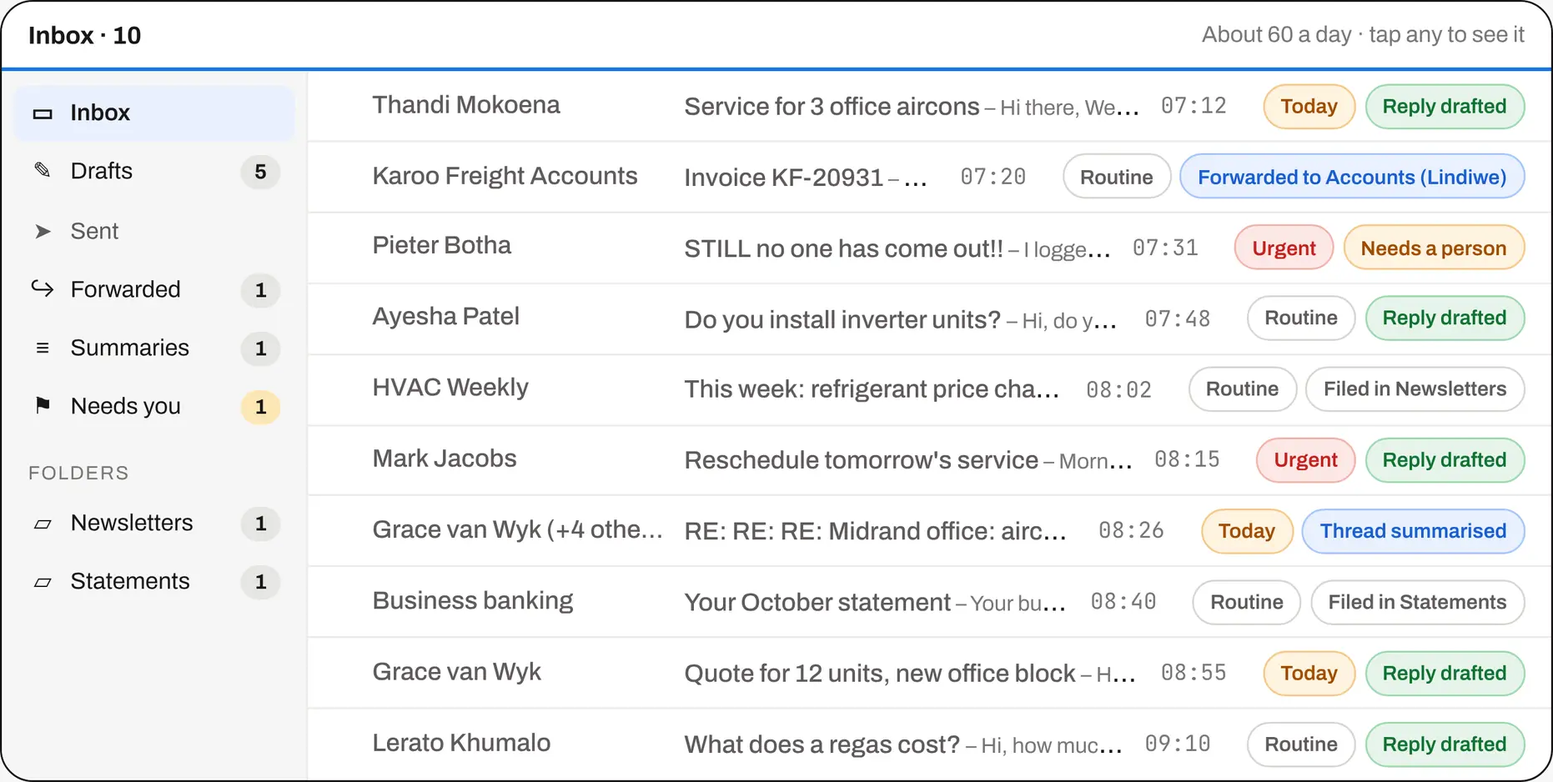
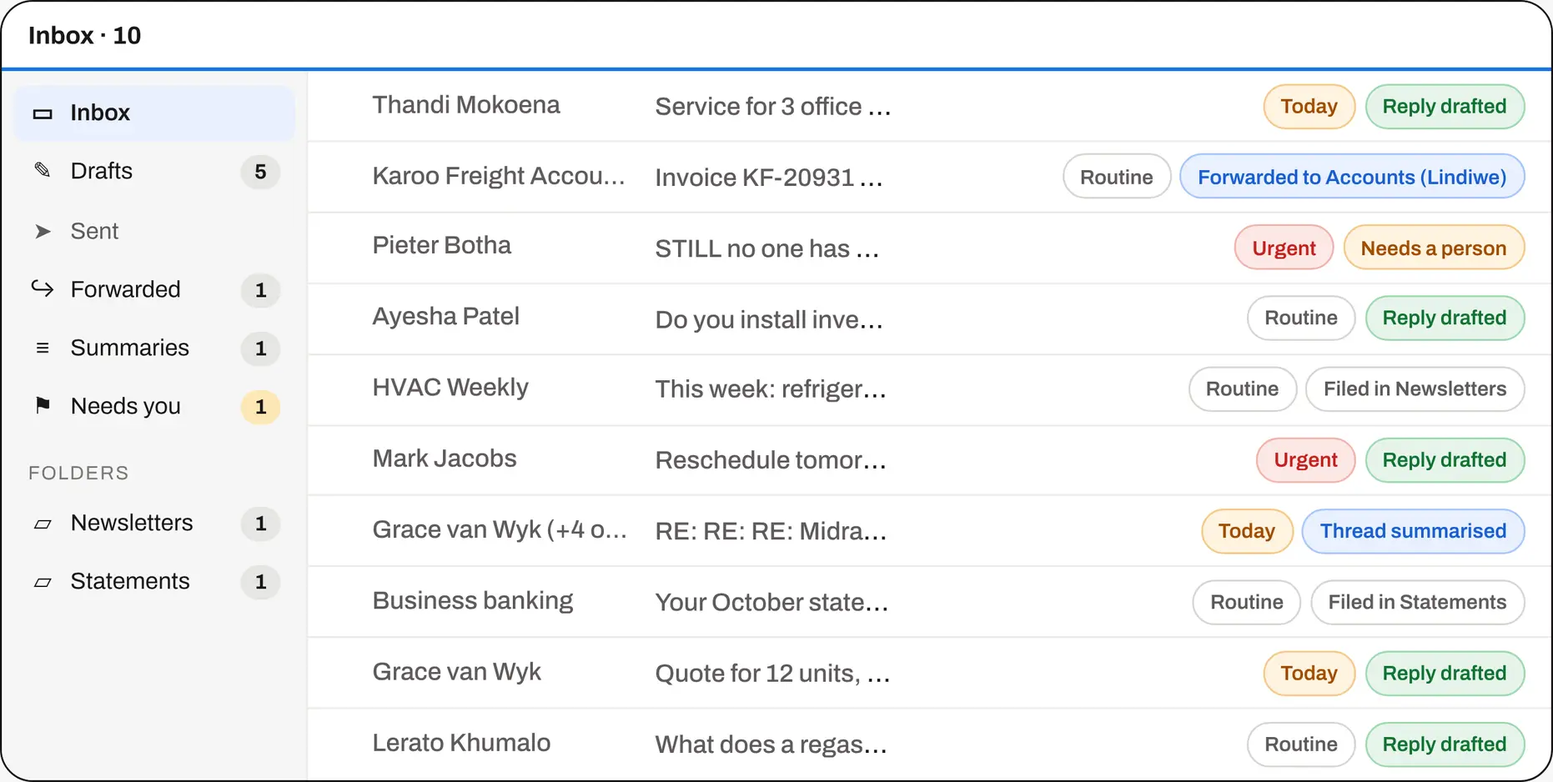
Homepage slider: fixes from the review (reversed wipe so the labels show first, matched desktop shots, sizes for short laptops, landscape and small phones, pinch-zoom, focus, no-JS, honest labels)
Claude-Session: https://claude.ai/code/session_01M1NKcTwKaxVh1QCPGxnW1z

diff --git a/home.css b/home.css
@@ -563,33 +563,48 @@ html:has(.hp-slides) { scroll-snap-type: y proximity; scroll-padding-top: var(--
 .hp-show--light h2, .hp-show--light h3 { color: var(--ink) !important; }
 .hp-show--light .hp-show__head p { color: #4a4646; }
 .hp-show--light .hp-next { border-color: var(--ink) !important; color: var(--ink) !important; }
-/* The inbox before and after: drag the line across to sort it; the results sit below.
-   --pos is how much of the "after" shows, from the left (home.js moves it). */
-.hp-cmp { --pos: 0%; --r: 1.985; --h: min(calc(100svh - var(--nav-h, 67px) - 22.2rem), 33rem); max-width: var(--wrap, 1140px); margin-inline: auto; }
-.hp-cmp__frame { position: relative; width: min(100%, calc(var(--h) * var(--r))); aspect-ratio: var(--r); margin-inline: auto; border-radius: 18px; overflow: hidden; background: #fff; box-shadow: 0 24px 50px -28px rgba(0, 0, 0, .35); cursor: ew-resize; touch-action: pan-y; -webkit-user-select: none; user-select: none; -webkit-tap-highlight-color: transparent; }
+/* The inbox before and after: drag the line left to sort it; the results sit below.
+   --pos is where the line is, from the left: the "before" shows left of it, the "after" right of it,
+   so the labels (Reply drafted, Urgent, …) are the first thing revealed. home.js moves it; it starts
+   at 100% (just the before). Without JavaScript the line sits at 50% and can't be moved. */
+.hp-cmp { --pos: 50%; --r: 1.985; --k: calc(1.5rem + 6px); --h: clamp(11rem, calc(100svh - var(--nav-h, 67px) - 22.2rem), 33rem); max-width: var(--wrap, 1140px); margin-inline: auto; }
+.hp-cmp.is-live { --pos: 100%; }
+.hp-cmp__frame { position: relative; width: min(100%, calc(var(--h) * var(--r))); aspect-ratio: var(--r); margin-inline: auto; border-radius: 18px; overflow: hidden; background: #fff; box-shadow: 0 24px 50px -28px rgba(0, 0, 0, .35); container-type: inline-size; cursor: ew-resize; touch-action: pan-y; touch-action: pan-y pinch-zoom; -webkit-user-select: none; user-select: none; -webkit-tap-highlight-color: transparent; }
 .hp-cmp__before, .hp-cmp__after { position: absolute; inset: 0; }
 .hp-cmp__before picture, .hp-cmp__after picture { display: block; height: 100%; }
 .hp-cmp__frame img { display: block; width: 100%; height: 100%; object-fit: cover; object-position: top left; pointer-events: none; }
-.hp-cmp__after { clip-path: inset(0 calc(100% - var(--pos)) 0 0); }
+.hp-cmp__after { clip-path: inset(0 0 0 var(--pos)); }
 .hp-cmp__line { position: absolute; top: 0; bottom: 0; left: var(--pos); width: 3px; margin-left: -1.5px; background: var(--ink); pointer-events: none; }
-.hp-cmp__knob { position: absolute; top: 50%; left: clamp(1.5rem, var(--pos), calc(100% - 1.5rem)); translate: -50% -50%; display: grid; place-items: center; width: 3rem; height: 3rem; border-radius: 50%; background: var(--ink); color: #fff; box-shadow: 0 6px 18px rgba(0, 0, 0, .28); cursor: grab; }
+/* the knob stays clear of the edges, so its focus ring is never cut off */
+.hp-cmp__knob { position: absolute; top: 50%; left: clamp(var(--k), var(--pos), calc(100% - var(--k))); translate: -50% -50%; display: grid; place-items: center; width: 3rem; height: 3rem; border-radius: 50%; background: var(--ink); color: #fff; box-shadow: 0 6px 18px rgba(0, 0, 0, .28); cursor: grab; }
 .hp-cmp__knob svg { width: 1.45rem; height: 1.45rem; }
 .hp-cmp__knob:focus-visible { outline: 3px solid var(--ink); outline-offset: 3px; }
 .hp-cmp.is-dragging .hp-cmp__knob { cursor: grabbing; }
-.hp-cmp__tag { position: absolute; bottom: .7rem; padding: .3rem .7rem; border-radius: 99px; background: var(--ink); color: #fff; font: 700 .72rem/1 "Archivo", sans-serif; letter-spacing: .06em; text-transform: uppercase; pointer-events: none; }
-.hp-cmp__before .hp-cmp__tag { right: .7rem; }
-.hp-cmp__after .hp-cmp__tag { left: .7rem; background: #1f7a3f; }
+.hp-cmp:not(.is-live) .hp-cmp__knob, .hp-cmp:not(.is-live) .hp-cmp__hint { display: none; }
+/* Before/After sit in the header band (the same in both shots), clear of the emails */
+.hp-cmp__tag { position: absolute; top: .3rem; padding: .22rem .55rem; border-radius: 99px; background: var(--ink); color: #fff; font: 700 .6rem/1 "Archivo", sans-serif; letter-spacing: .06em; text-transform: uppercase; pointer-events: none; }
+.hp-cmp__before .hp-cmp__tag { left: 24%; }
+.hp-cmp__after .hp-cmp__tag { right: .6rem; background: #1f7a3f; }
 /* taps, keys and the first-view nudge glide; dragging follows the finger exactly */
 .hp-cmp.is-ease .hp-cmp__after { transition: clip-path .45s cubic-bezier(.3, .7, .2, 1); }
 .hp-cmp.is-ease .hp-cmp__line, .hp-cmp.is-ease .hp-cmp__knob { transition: left .45s cubic-bezier(.3, .7, .2, 1); }
-.hp-cmp__hint { position: absolute; top: 50%; left: calc(clamp(1.5rem, var(--pos), calc(100% - 1.5rem)) + 2.1rem); translate: 0 -50%; padding: .45rem .8rem; border-radius: 99px; background: var(--ink); color: #fff; font: 700 .8rem/1 "Archivo", sans-serif; white-space: nowrap; pointer-events: none; transition: opacity .3s; }
-.hp-cmp__hint::after { content: "\00a0\2192"; }
+.hp-cmp__hint { position: absolute; top: 50%; right: calc(100% - clamp(var(--k), var(--pos), calc(100% - var(--k))) + 2.1rem); translate: 0 -50%; padding: .45rem .8rem; border-radius: 99px; background: var(--ink); color: #fff; font: 700 .8rem/1 "Archivo", sans-serif; white-space: nowrap; pointer-events: none; transition: opacity .3s; }
+.hp-cmp__hint::before { content: "\2190\00a0"; }
 .hp-cmp.is-used .hp-cmp__hint, .hp-cmp.is-ease .hp-cmp__hint { opacity: 0; }
+@container (max-width: 15rem) { .hp-cmp__hint { white-space: normal; max-width: calc(100% - 4.6rem); line-height: 1.15; text-align: right; } }
+@container (max-width: 10rem) { .hp-cmp__hint { display: none; } }
+/* the tags need a header band at least as tall as they are: hide them on the smallest pictures */
+@media (min-width: 601px) { @container (max-width: 26rem) { .hp-cmp__tag { display: none; } } }
+@media (max-width: 600px) { @container (max-width: 11.5rem) { .hp-cmp__tag { display: none; } } }
+@media (forced-colors: active) {
+  .hp-cmp__line { forced-color-adjust: none; background: CanvasText; }
+  .hp-cmp__knob { border: 2px solid CanvasText; }
+}
 .hp-show--light .hp-show__head .hp-link { color: var(--ink); text-decoration-color: var(--ink); white-space: nowrap; }
-.hp-kpis { list-style: none; display: grid; grid-template-columns: repeat(4, minmax(0, 1fr)); gap: .6rem; width: min(100%, calc(var(--h) * var(--r))); margin: .8rem auto 0; padding: 0; }
+.hp-kpis { list-style: none; display: grid; grid-template-columns: repeat(4, minmax(0, 1fr)); gap: .6rem; width: min(100%, max(calc(var(--h) * var(--r)), 40rem)); margin: .8rem auto 0; padding: 0; }
 .hp-kpis li { display: grid; align-content: start; gap: .15rem; min-width: 0; padding: .55rem .85rem .6rem; border: 1.5px solid var(--ink); border-radius: 14px; background: #fff; }
 .hp-kpis b { font: 800 clamp(1.3rem, 1.9vw, 1.65rem)/1.05 "Archivo", sans-serif; letter-spacing: -.01em; }
-.hp-kpis span { color: #4a4646; font-size: .8rem; line-height: 1.25; }
+.hp-kpis span { color: #4a4646; font-size: .8rem; line-height: 1.25; text-wrap: balance; }
 .hp-kpis li.is-time { background: var(--ink); border-color: var(--ink); color: #fff; }
 .hp-kpis li.is-time span { color: #d6d2cb; }
 /* desktop: the title and the intro side by side, so the inbox gets the height */
@@ -598,14 +613,31 @@ html:has(.hp-slides) { scroll-snap-type: y proximity; scroll-padding-top: var(--
   .hp-show--light .hp-show__head p { padding-bottom: .5rem; }
 }
 @media (max-width: 600px) {
-  .hp-cmp { --r: .7947; --h: calc(100svh - var(--nav-h, 67px) - 25rem); }
-  .hp-kpis { grid-template-columns: repeat(2, minmax(0, 1fr)); gap: .45rem; width: min(100%, max(calc(var(--h) * var(--r)), 19rem)); margin-top: .6rem; }
+  .hp-cmp { --r: .7947; --k: calc(1.3rem + 6px); --h: calc(100svh - var(--nav-h, 67px) - 25rem); }
+  .hp-kpis { grid-template-columns: repeat(2, minmax(0, 1fr)); gap: .45rem; width: min(100%, max(calc(var(--h) * var(--r)), 15rem)); margin-top: .6rem; }
   .hp-kpis li { padding: .4rem .6rem .45rem; border-radius: 12px; gap: .05rem; }
   .hp-kpis b { font-size: 1.15rem; }
   .hp-kpis span { font-size: .74rem; line-height: 1.2; }
-  .hp-cmp__hint { font-size: .72rem; padding: .4rem .65rem; }
+  .hp-cmp__hint { font-size: .72rem; padding: .4rem .65rem; right: calc(100% - clamp(var(--k), var(--pos), calc(100% - var(--k))) + 1.9rem); }
   .hp-cmp__knob { width: 2.6rem; height: 2.6rem; }
-  .hp-cmp__tag { bottom: .5rem; font-size: .62rem; }
+}
+/* short phones (most phones in Safari): the intro sentence goes, so the inbox gets that room */
+@media (max-width: 600px) and (max-height: 760px) { .hp-cmp { --h: calc(100svh - var(--nav-h, 67px) - 20.5rem); } }
+/* Short, wide screens (laptop windows under 680px tall, phones on their side): the figures sit beside
+   the inbox instead of under it, so the inbox can be bigger. */
+@media (orientation: landscape) and (max-height: 680px) {
+  .hp-cmp { --h: max(9rem, calc(100svh - var(--nav-h, 67px) - 15.7rem)); --side: 17rem; display: grid; grid-template-columns: min(calc(var(--h) * var(--r)), calc(100% - var(--side) - .9rem)) var(--side); gap: .9rem; justify-content: center; align-items: center; }
+  .hp-cmp__frame { width: 100%; margin: 0; }
+  .hp-kpis { grid-template-columns: repeat(2, minmax(0, 1fr)); width: auto; margin: 0; gap: .5rem; }
+  .hp-kpis li { padding: .5rem .7rem .55rem; }
+}
+@media (orientation: landscape) and (max-height: 500px) {
+  .hp-cmp { --h: max(8rem, calc(100svh - var(--nav-h, 67px) - 11rem)); --side: 15rem; }
+  #see.hp-slide { padding-bottom: 1.5rem !important; }   /* no down arrow here, so no room kept for it */
+  .hp-kpis { gap: .4rem; }
+  .hp-kpis li { padding: .4rem .6rem .45rem; border-radius: 12px; }
+  .hp-kpis b { font-size: 1.15rem; }
+  .hp-kpis span { font-size: .74rem; line-height: 1.2; }
 }
 
 /* ---------- Before and after: bigger cards, images spilling over the edges like the deck ---------- */
@@ -683,7 +715,7 @@ html:has(.hp-slides) { scroll-snap-type: y proximity; scroll-padding-top: var(--
 body.consent-open .hp-next { display: none !important; }
 /* Short phones (iPhone SE and similar): scroll freely, no snapping */
 @media (max-height: 700px) { html:has(.hp-slides), html.hp-snap { scroll-snap-type: none !important; } }
-@media (max-width: 600px) and (max-height: 760px) { .hp-show__head p { display: none; } }
+@media (max-width: 600px) and (max-height: 760px) { .hp-show__head .hp-num, .hp-show__head .hp-label, .hp-show__head > p > span { display: none; } }
 /* ---------- Developer audit fixes ---------- */
 html:has(.hp-slides) .footer { scroll-snap-align: end; }
 .hp-deck { overflow-x: hidden; }

diff --git a/index.html b/index.html
@@ -31,7 +31,7 @@
   <link rel="stylesheet" href="https://fonts.googleapis.com/css2?family=Archivo:wdth,wght@62..125,400..900&family=Inter:wght@400;500;600&family=Space+Grotesk:wght@500;600;700&family=JetBrains+Mono:wght@400;500;600&display=swap" media="print" onload="this.media=&#39;all&#39;" />
   <noscript><link rel="stylesheet" href="https://fonts.googleapis.com/css2?family=Archivo:wdth,wght@62..125,400..900&family=Inter:wght@400;500;600&family=Space+Grotesk:wght@500;600;700&family=JetBrains+Mono:wght@400;500;600&display=swap" /></noscript>
   <link rel="stylesheet" href="styles.css?v=20261018b" />
-  <link rel="stylesheet" href="home.css?v=20261018d" />
+  <link rel="stylesheet" href="home.css?v=20261018e" />
 
   <script type="application/ld+json">
 {
@@ -276,20 +276,20 @@
       <div class="hp-wrap">
         <div class="hp-show__head">
           <div><p class="hp-num">03</p><p class="hp-label">See it work</p><h2 id="s4">Watch it work.</h2></div>
-          <p>A morning&rsquo;s inbox, sorted in seconds. A prepared example: run any of them yourself, nothing is sent. <a class="hp-link" href="live-demo?sample=email">Run it yourself&nbsp;&rarr;</a></p>
+          <p><span>Ten example emails, sorted and drafted in seconds. Nothing gets sent.</span> <a class="hp-link" href="live-demo?sample=email">Run it yourself&nbsp;&rarr;</a></p>
         </div>
         <div class="hp-cmp" data-cmp>
           <div class="hp-cmp__frame">
-            <div class="hp-cmp__before"><picture><source media="(max-width: 600px)" srcset="assets/shots/inbox-before-m.webp?v=3" type="image/webp" width="720" height="906" /><img src="assets/shots/inbox-before.webp?v=3" alt="Before: an inbox with ten unread emails: quote requests, an invoice, a complaint, a newsletter, a long thread and a bank statement, all mixed together." width="1862" height="938" loading="lazy" draggable="false" /></picture><span class="hp-cmp__tag" aria-hidden="true">Before</span></div>
-            <div class="hp-cmp__after"><picture><source media="(max-width: 600px)" srcset="assets/shots/inbox-after-m.webp?v=3" type="image/webp" width="720" height="906" /><img src="assets/shots/inbox-after.webp?v=3" alt="After: the same inbox, each email marked urgent, today or routine, and labelled reply drafted, forwarded to accounts, filed, thread summarised or needs a person." width="1862" height="938" loading="lazy" draggable="false" /></picture><span class="hp-cmp__tag" aria-hidden="true">After</span></div>
+            <div class="hp-cmp__before"><picture><source media="(max-width: 600px)" srcset="assets/shots/inbox-before-m.webp?v=5" type="image/webp" width="720" height="906" /><img src="assets/shots/inbox-before.webp?v=5" alt="Before: an inbox with ten unread emails: quote requests, an invoice, a complaint, a newsletter, a long thread and a bank statement, all mixed together." width="1862" height="938" loading="lazy" draggable="false" /></picture><span class="hp-cmp__tag" aria-hidden="true">Before</span></div>
+            <div class="hp-cmp__after"><picture><source media="(max-width: 600px)" srcset="assets/shots/inbox-after-m.webp?v=5" type="image/webp" width="720" height="906" /><img src="assets/shots/inbox-after.webp?v=5" alt="After: the same inbox, each email marked urgent, today or routine, and labelled reply drafted, forwarded to accounts, filed, thread summarised or needs a person." width="1862" height="938" loading="lazy" draggable="false" /></picture><span class="hp-cmp__tag" aria-hidden="true">After</span></div>
             <span class="hp-cmp__line" aria-hidden="true"></span>
             <span class="hp-cmp__hint" aria-hidden="true">Drag to sort them</span>
-            <span class="hp-cmp__knob" role="slider" tabindex="0" aria-label="Before and after: move to sort the inbox" aria-valuemin="0" aria-valuemax="100" aria-valuenow="0" aria-valuetext="Before: nothing sorted"><svg viewBox="0 0 24 24" aria-hidden="true"><path d="M9 6l-5 6 5 6M15 6l5 6-5 6" fill="none" stroke="currentColor" stroke-width="2.2" stroke-linecap="round" stroke-linejoin="round"/></svg></span>
+            <span class="hp-cmp__knob" role="slider" tabindex="0" aria-label="Before and after: move left to sort the inbox" aria-valuemin="0" aria-valuemax="100" aria-valuenow="100" aria-valuetext="Before: nothing sorted"><svg viewBox="0 0 24 24" aria-hidden="true"><path d="M9 6l-5 6 5 6M15 6l5 6-5 6" fill="none" stroke="currentColor" stroke-width="2.2" stroke-linecap="round" stroke-linejoin="round"/></svg></span>
           </div>
           <ul class="hp-kpis" aria-label="What happened to these 10 example emails">
             <li class="is-time"><b>35 min</b><span>saved on these 10 emails</span></li>
             <li><b>5</b><span>replies drafted, ready to check</span></li>
-            <li><b>2</b><span>urgent, flagged to the top</span></li>
+            <li><b>2</b><span>urgent, flagged in red</span></li>
             <li class="is-time"><b>~3.5 h</b><span>a day, if you get 60 like these</span></li>
           </ul>
         </div>
@@ -379,7 +379,7 @@
       </div>
     </section>
   </main>
-  <script src="home.js?v=8" defer></script>
+  <script src="home.js?v=9" defer></script>
   <!-- ============ FOOTER ============ -->
   <footer class="footer footer--slim">
     <div class="container">

diff --git a/home.js b/home.js
@@ -13,30 +13,39 @@
 })();
 
 /* "Watch it work": drag the line across the inbox to see it sorted.
-   --pos (0 to 100%) is how much of the "after" shows, from the left. A mouse moves it straight away;
-   a finger moves it once the drag is clearly sideways (so scrolling the page past it still works),
-   and a tap jumps it there. Keys: arrows, Page Up/Down, Home and End. Fires "cmp:move" for the counts below. */
+   --pos (0 to 100%) is where the line is, from the left; the "after" shows right of it, so dragging
+   left sorts more. It starts at 100% (just the before). A mouse moves it straight away; a finger
+   moves it once the drag is clearly sideways (so scrolling the page past it still works), and a tap
+   jumps it there. Keys on the knob: arrows, Page Up/Down, Home and End. The knob's value is the
+   line's position; its text says how much is sorted. Fires "cmp:move" (detail: % sorted). */
 (function () {
   'use strict';
   var still = matchMedia('(prefers-reduced-motion: reduce)');
   document.querySelectorAll('[data-cmp]').forEach(function (box) {
     var frame = box.querySelector('.hp-cmp__frame'), knob = box.querySelector('.hp-cmp__knob');
     if (!frame || !knob) return;
-    var pos = 0, used = false, drag = null, easeT = 0;
+    var pos = 100, used = false, drag = null, easeT = 0;
     var set = function (p, byUser) {
       pos = Math.max(0, Math.min(100, p));
       box.style.setProperty('--pos', pos + '%');
-      var n = Math.round(pos);
-      knob.setAttribute('aria-valuenow', String(n));
-      knob.setAttribute('aria-valuetext', n <= 2 ? 'Before: nothing sorted' : n >= 98 ? 'After: every email sorted' : n + '% sorted');
-      if (byUser) { used = true; box.classList.add('is-used'); box.dispatchEvent(new CustomEvent('cmp:move', { detail: pos })); }
+      var sorted = Math.round(100 - pos);
+      knob.setAttribute('aria-valuenow', String(Math.round(pos)));
+      knob.setAttribute('aria-valuetext', sorted <= 2 ? 'Before: nothing sorted' : sorted >= 98 ? 'After: every email sorted' : sorted + '% sorted');
+      if (byUser) { used = true; box.classList.add('is-used'); box.dispatchEvent(new CustomEvent('cmp:move', { detail: 100 - pos })); }
     };
     var ease = function (on) { clearTimeout(easeT); box.classList.toggle('is-ease', on && !still.matches); if (on) easeT = setTimeout(function () { box.classList.remove('is-ease'); }, 500); };
     var at = function (x) { var r = frame.getBoundingClientRect(); return r.width ? (x - r.left) / r.width * 100 : pos; };
     frame.addEventListener('pointerdown', function (e) {
       if (e.button > 0) return;
+      var onKnob = Boolean(e.target.closest && e.target.closest('.hp-cmp__knob'));
       drag = { id: e.pointerId, x: e.clientX, y: e.clientY, on: e.pointerType === 'mouse', touch: e.pointerType !== 'mouse' };
-      if (drag.on) { e.preventDefault(); ease(false); box.classList.add('is-dragging'); try { frame.setPointerCapture(e.pointerId); } catch (err) { /* fine */ } set(at(e.clientX), true); }
+      if (drag.on) {
+        // a press on the knob focuses it (so the arrow keys work after) and doesn't jump the line
+        if (!onKnob) e.preventDefault();
+        ease(false); box.classList.add('is-dragging');
+        try { frame.setPointerCapture(e.pointerId); } catch (err) { /* fine */ }
+        if (!onKnob) set(at(e.clientX), true);
+      }
     });
     frame.addEventListener('pointermove', function (e) {
       if (!drag || e.pointerId !== drag.id) return;
@@ -60,7 +69,8 @@
       if (n === null) return;
       e.preventDefault(); ease(true); set(n, true);
     });
-    set(0, false);
+    box.classList.add('is-live');
+    set(100, false);
     // The first time it's mostly on screen, nudge the line once so it's clear it moves (not with reduced motion)
     if (!('IntersectionObserver' in window) || still.matches) return;
     var io = new IntersectionObserver(function (es) {
@@ -68,8 +78,12 @@
       io.disconnect();
       setTimeout(function () {
         if (used) return;
-        box.classList.add('is-ease'); set(16, false);
-        setTimeout(function () { if (!used) set(0, false); setTimeout(function () { if (!drag) box.classList.remove('is-ease'); }, 500); }, 800);
+        box.classList.add('is-ease'); set(84, false);
+        setTimeout(function () {
+          if (!used) set(100, false);
+          clearTimeout(easeT);
+          easeT = setTimeout(function () { box.classList.remove('is-ease'); }, 500);
+        }, 800);
       }, 600);
     }, { threshold: 0.6 });
     io.observe(frame);

diff --git a/scripts/shots/capture.js b/scripts/shots/capture.js
@@ -1,18 +1,22 @@
-// Re-captures the homepage "Watch it work" screenshots in the light skin.
-// Serve the site on 127.0.0.1:8199, then: node scripts/shots/capture.js scripts/shots <out-dir>
-// and convert: convert inbox-before.png -resize 1862x -quality 84 assets/shots/inbox-before.webp (same for after; results at full size).
-// Phone versions: scripts/shots/capture-m.js.
-const { chromium } = require('playwright'); const fs=require('fs');
-const css=fs.readFileSync(process.argv[2]+'/light.css','utf8'); const out=process.argv[3];
+// Desktop versions of the homepage "Watch it work" before/after pair, in the light skin. The two are
+// the same size and their columns line up (a fixed-width labels column in both states), so the
+// slider shows each row half before, half after. Serve the site on 127.0.0.1:8199, then:
+// node scripts/shots/capture.js <out-dir>, and convert each PNG:
+// convert inbox-before.png -resize 1862x -quality 84 assets/shots/inbox-before.webp (same for after).
+// Phone versions: scripts/shots/capture-cmp.js.
+const { chromium } = require('playwright'); const fs = require('fs');
+const css = fs.readFileSync(__dirname + '/light.css', 'utf8') +
+  '.ld[data-kind="email"] .ld-row__head{grid-template-columns:.6rem minmax(0,9rem) minmax(0,1fr) 21rem!important}.ld[data-kind="email"] .ld-row__time{display:none!important}';
+const out = process.argv[2];
 (async () => { const b = await chromium.launch({ executablePath: '/opt/pw-browsers/chromium' });
   const ctx = await b.newContext({ viewport: { width: 1180, height: 680 }, deviceScaleFactor: 3, reducedMotion: 'reduce' });
   const pg = await ctx.newPage(); await pg.addInitScript(() => { try { localStorage.setItem('rc_consent', 'no'); } catch (e) {} });
-  await pg.goto('http://127.0.0.1:8199/live-demo.html?sample=email', { waitUntil: 'load' }); await pg.addStyleTag({content:css}); await pg.waitForTimeout(900);
-  await pg.evaluate(() => { document.getElementById('consent')?.remove(); document.body.classList.remove('consent-open'); });
-  await pg.locator('.ld-box').screenshot({ path: out+'/inbox-before.png' });
+  await pg.goto('http://127.0.0.1:8199/live-demo.html?sample=email', { waitUntil: 'load' }); await pg.addStyleTag({ content: css }); await pg.waitForTimeout(900);
+  // no header note: "tap any to see it" isn't true on the homepage (a tap moves the slider), and the After tag sits there
+  const basis = () => pg.evaluate(() => { document.getElementById('consent')?.remove(); document.body.classList.remove('consent-open'); const el = document.querySelector('[data-ld-basis]'); if (el) el.textContent = ''; });
+  await basis();
+  await pg.locator('.ld-box').screenshot({ path: out + '/inbox-before.png' });
   await pg.click('[data-ld-run]'); await pg.waitForTimeout(900);
-  await pg.locator('.ld-box').screenshot({ path: out+'/inbox-after.png' });
-  const k = await pg.locator('.ld-kpis').boundingBox(), t = await pg.locator('.ld-time').boundingBox();
-  await pg.screenshot({ path: out+'/inbox-results.png', clip: { x: k.x - 12, y: k.y - 12, width: Math.max(k.width, t.width) + 24, height: (t.y + t.height) - k.y + 24 } });
-  await pg.screenshot({ path: out+'/full.png' });
+  await basis(); await pg.evaluate(() => { const r = document.querySelector('.ld-rows'); if (r) r.scrollTop = 0; });
+  await pg.locator('.ld-box').screenshot({ path: out + '/inbox-after.png' });
   await b.close(); })();

diff --git a/scripts/shots/capture-cmp.js b/scripts/shots/capture-cmp.js
@@ -1,7 +1,7 @@
 // Phone versions of the homepage "Watch it work" before/after pair, the same size so the slider lines
 // them up row for row. Serve the site on 127.0.0.1:8199, then: node scripts/shots/capture-cmp.js <out-dir>
 // and convert each PNG: convert inbox-before-m.png -quality 82 assets/shots/inbox-before-m.webp (same for after).
-// The desktop pair (scripts/shots/capture.js) is already the same size in both states.
+// The desktop pair: scripts/shots/capture.js.
 const { chromium } = require('playwright'); const fs = require('fs');
 const css = fs.readFileSync(__dirname + '/light.css', 'utf8') + '.ld-box{height:452px!important;min-height:0!important;max-height:none!important}';
 const out = process.argv[2];
@@ -9,10 +9,13 @@ const out = process.argv[2];
   const ctx = await b.newContext({ viewport: { width: 400, height: 900 }, deviceScaleFactor: 2, reducedMotion: 'reduce' });
   const pg = await ctx.newPage(); await pg.addInitScript(() => { try { localStorage.setItem('rc-consent', 'denied'); } catch (e) {} });
   await pg.goto('http://127.0.0.1:8199/live-demo.html?sample=email', { waitUntil: 'load' }); await pg.addStyleTag({ content: css }); await pg.waitForTimeout(900);
-  await pg.evaluate(() => { document.getElementById('consent')?.remove(); document.body.classList.remove('consent-open'); });
+  // no header note: "tap any to see it" isn't true on the homepage (a tap moves the slider), and the After tag sits there
+  const basis = () => pg.evaluate(() => { document.getElementById('consent')?.remove(); document.body.classList.remove('consent-open'); const el = document.querySelector('[data-ld-basis]'); if (el) el.textContent = ''; });
+  await basis();
   await pg.locator('.ld-box').screenshot({ path: out + '/inbox-before-m.png' });
   await pg.click('[data-ld-run]'); await pg.waitForTimeout(400); await pg.click('[data-ld-run]'); await pg.waitForTimeout(900);
   // back to the top, and hide the results panel so nothing dark shows behind the box's rounded corners
+  await basis();
   await pg.evaluate(() => { const r = document.querySelector('.ld-rows'); if (r) r.scrollTop = 0; document.querySelectorAll('.ld-kpis, .ld-time').forEach((e) => { e.style.visibility = 'hidden'; }); });
   await pg.locator('.ld-box').screenshot({ path: out + '/inbox-after-m.png' });
   await b.close(); })();
